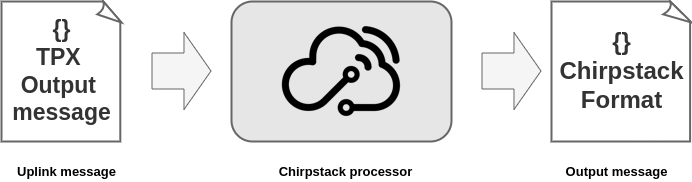
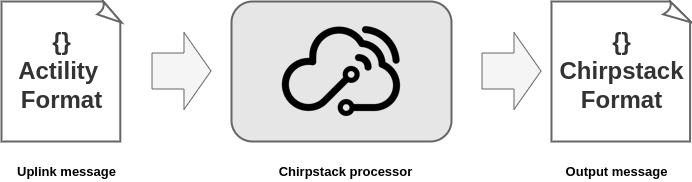
Added new fields to messages

Changed region(s): [[0.0, 0.2198, 0.1821, 0.6868], [0.0607, 0.1099, 0.1214, 0.1923]]

diff --git a/docs/Message/Notification_Message/README.md b/docs/Message/Notification_Message/README.md
@@ -1,4 +1,4 @@
-# Notification Message 
+# Notification Message
 
 When you do not need device metadata, you can send directly the result of a decoded hexadecimal payload. 
 
@@ -12,25 +12,28 @@ When you do not need device metadata, you can send directly the result of a deco
         "CustomerID": "199983788",
         "FCntDn": 11,
         "Type": "join",
-        "Var1": ""
+        "Var1": "",
+        "Var2": ""
     }
 }
 ```
 
-| Property | Description |
-| -------- | ----------- |
-| ```Time``` | LRR Timestamp for the packet. Syntax: STRING (ISO date/time) |
-| ```DevEUI``` | Device unique ID. Syntax: STRING (Hexadecimal representation) |
-| ```Lrcid``` | ID of the LRC that processed the packet. Syntax: STRING (Hexadecimal representation) |
-| ```DevAddr``` | Device DevAddr. Syntax: STRING (Hexadecimal representation) |
-| ```CustomerID``` | Customer ID associated to the ThingPark Enterprise account. Syntax: STRING |
-| ```FCntDn``` | The downlink counter to be used for the next downlink frame. Only applicable to LoRaWAN® 1.0. Syntax: NUMBER (32 bits unsigned integer) |
-| ```Type``` | Type of notification:<ul><li>reset: Device reset</li><li>join: Successful Join procedure</li><li>devstatusans: Battery and Margin</li></ul>Syntax: STRING (enum) |
-| ```Var1``` | Notification variable 1. The content depends on notification type:<ul><li>reset: type of reset<ul><li>automatic_reset: ABP automatic reset</li><li>admin_reset: OTAA/ABP administrative reset</li></ul></li><li>join: AppSKey encrypted with AS transport key</li><li>devstatusans: Battery (0..255)</li></ul> |
+
+| Property         | Description                                                                                                                                                                                                                                                                                                    |
+|------------------|----------------------------------------------------------------------------------------------------------------------------------------------------------------------------------------------------------------------------------------------------------------------------------------------------------------|
+| ```Time```       | LRR Timestamp for the packet. Syntax: STRING (ISO date/time)                                                                                                                                                                                                                                                   |
+| ```DevEUI```     | Device unique ID. Syntax: STRING (Hexadecimal representation)                                                                                                                                                                                                                                                  |
+| ```Lrcid```      | ID of the LRC that processed the packet. Syntax: STRING (Hexadecimal representation)                                                                                                                                                                                                                           |
+| ```DevAddr```    | Device DevAddr. Syntax: STRING (Hexadecimal representation)                                                                                                                                                                                                                                                    |
+| ```CustomerID``` | Customer ID associated to the ThingPark Enterprise account. Syntax: STRING                                                                                                                                                                                                                                     |
+| ```FCntDn```     | The downlink counter to be used for the next downlink frame. Only applicable to LoRaWAN® 1.0. Syntax: NUMBER (32 bits unsigned integer)                                                                                                                                                                        |
+| ```Type```       | Type of notification:<ul><li>reset: Device reset</li><li>join: Successful Join procedure</li><li>devstatusans: Battery and Margin</li></ul>Syntax: STRING (enum)                                                                                                                                               |
+| ```Var1```       | Notification variable 1. The content depends on notification type:<ul><li>reset: type of reset<ul><li>automatic_reset: ABP automatic reset</li><li>admin_reset: OTAA/ABP administrative reset</li></ul></li><li>join: AppSKey encrypted with AS transport key</li><li>devstatusans: Battery (0..255)</li></ul> |
+| ```Var2```       | Notification variable. Uniquely, when the type of notification is "devstatusans", then the Var2 is the value of margin (-32..31)                                                                                                                                                                               |
 
 
 ::: warning Important Note
-For more informations, please refer to the [full documentation](https://docs.thingpark.com/thingpark-enterprise/6.1/Content/Resources/DocLibrary/TPE6.1/TP_Enterprise_6.1-rev.5_LRC-AS%20Tunnel%20Interface%20Developer%20Guide_LoRaWAN.pdf)
+For more information, please refer to the [full documentation](https://docs.thingpark.com/thingpark-enterprise/6.1/Content/Resources/DocLibrary/TPE6.1/TP_Enterprise_6.1-rev.5_LRC-AS%20Tunnel%20Interface%20Developer%20Guide_LoRaWAN.pdf)
 :::
 
 

diff --git a/docs/Message/Uplink_Message/README.md b/docs/Message/Uplink_Message/README.md
@@ -55,12 +55,21 @@ The following Uplink message is sent by all connections from ThingPark X IoT Flo
       "alr": {
         "pro": "ADRF/DEMO",
         "ver": "2"
-      }
+      },
+      "tags": [
+        "site=Paris"
+      ],
+      "name": "My Demo Device"
     },
     "ModelCfg": "1:TemperatureService, 2:SwissPostDevice",
-    "DevAddr": "05CB0AE8",
-    "TxPower": 7.000000,
-    "NbTrans": 1
+    "InstantPER": 0.0,
+    "MeanPER": 0.0,
+    "DevAddr": "04D2848E",
+    "AckRequested": 1,
+    "TxPower": 2.0,
+    "NbTrans": 1,
+    "Frequency": 868.1,
+    "DynamicClass": "A"
   }
 }
 ```
@@ -171,7 +180,11 @@ When using a driver, the hexadecimal payload is decoded. The following message i
                 "alr": {
                     "pro": "ABEE/APY",
                     "ver": "1"
-                }
+                },
+                "tags": [
+                  "site=Paris"
+                ],
+                "name": "My Demo Device"
             },
             "ModelCfg": "1:TWA_100002157.11278.AS",
             "DriverCfg": {
@@ -182,6 +195,14 @@ When using a driver, the hexadecimal payload is decoded. The following message i
                 },
                 "id": "abeeway:asset-tracker:1"
             },
+            "InstantPER": 0.0,
+            "MeanPER": 0.0,
+            "DevAddr": "04D2848E",
+            "AckRequested": 1,
+            "TxPower": 2.0,
+            "NbTrans": 1,
+            "Frequency": 868.1,
+            "DynamicClass": "A",
             "payload": {
                 "messageType": "HEARTBEAT",
                 "mode": "MOTION_TRACKING",
@@ -285,7 +306,8 @@ When an uplink is not properly decoded due to any possible reason, the payload r
             },
             "tags": [
                 "PDM"
-            ]
+            ],
+              "name": "Bob Device"
             },
             "ModelCfg": "1:TWA_100002164.1105.AS",
             "DriverCfg": {
@@ -323,7 +345,7 @@ The field **payloadDecodedError** contains the reason of the unavailability of t
 
 ## Legacy format
 
-When you expect the receive the legacy format (Dx-Dataflow product), on your connection configuration, you need to set the parameter ```sendMetadata=true```.
+When you expect to receive the legacy format (Dx-Dataflow product), on your connection configuration, you need to set the parameter ```sendMetadata=true```.
 
 ```json
 {

diff --git a/docs/Processor/ChirpStack/README.md b/docs/Processor/ChirpStack/README.md
@@ -6,7 +6,7 @@ sidebarDepth: 4
 
 * ChirpStack is an open-source LoRaWAN Network Server which can be used to set up LoRaWAN networks.
 
-We use a standard output transformation processor that transform TPX output messages to different [ChirpStack Event](https://www.chirpstack.io/application-server/integrations/events/#json) messages JSON format.
+We use a standard output transformation processor that transform output messages from Actility's format to different [ChirpStack Event](https://www.chirpstack.io/application-server/integrations/events/#json) messages JSON format.
 
 ![img](./images/chirpstack.png)
 
